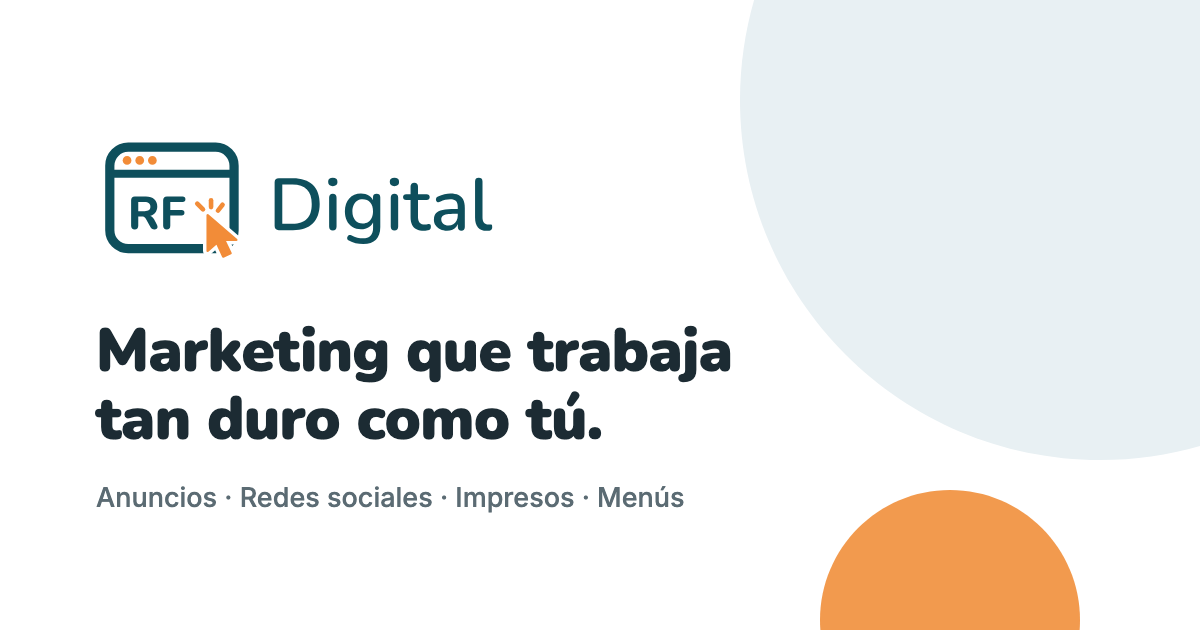
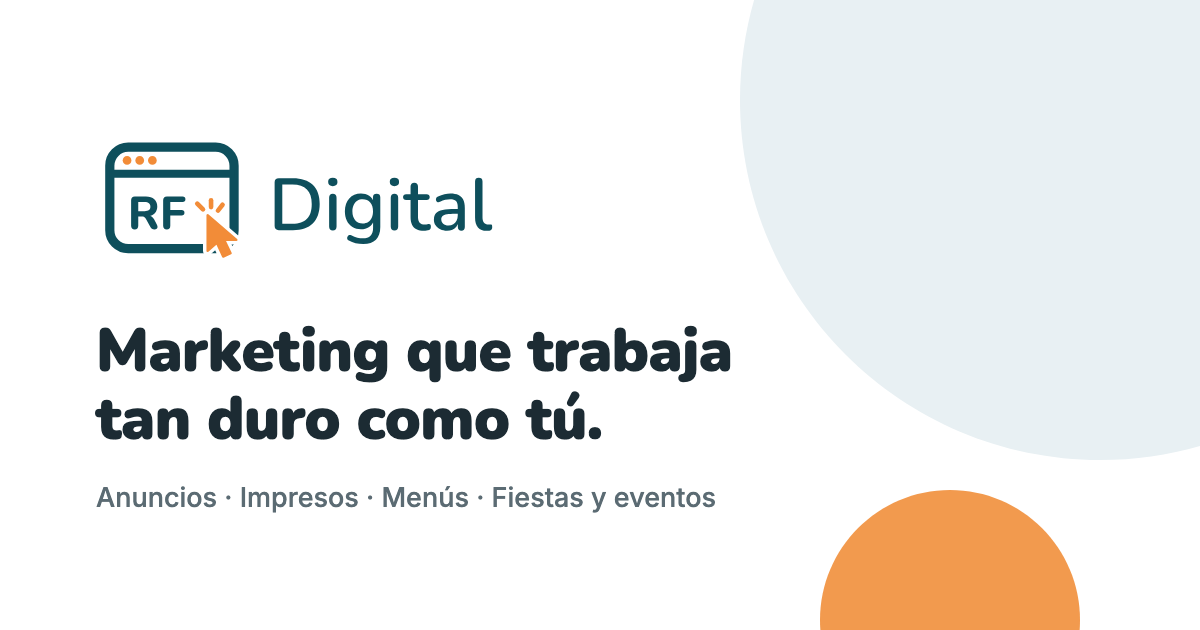
Mention parties and events in the link previews

Changed region(s): [[0.185, 0.754, 0.6167, 0.8143]]

diff --git a/es/index.html b/es/index.html
@@ -4,20 +4,20 @@
   <meta charset="utf-8">
   <meta name="viewport" content="width=device-width, initial-scale=1">
   <title>Marketing digital para negocios locales | RF Digital</title>
-  <meta name="description" content="RF Digital diseña anuncios, publicaciones para redes, logos, tarjetas, lonas, letreros y menús para negocios locales, estén donde estén.">
+  <meta name="description" content="RF Digital diseña anuncios, publicaciones para redes, logos, tarjetas, lonas, letreros y menús para negocios locales, además de invitaciones y lonas para fiestas y eventos.">
   <link rel="canonical" href="https://jose-franco22.github.io/rf-digital/es/">
   <meta name="robots" content="noindex, follow">
 
   <!-- Facebook and other link previews don't run JavaScript, so this page
        carries its own Spanish preview, then sends people to the Spanish site. -->
   <meta property="og:type" content="website">
-  <meta property="og:title" content="RF Digital | Marketing digital para negocios locales">
-  <meta property="og:description" content="Anuncios, publicaciones para redes, logos, impresos y menús para negocios locales.">
+  <meta property="og:title" content="RF Digital | Diseño para negocios, fiestas y eventos">
+  <meta property="og:description" content="Anuncios, redes sociales, lonas, menús e invitaciones para negocios locales, fiestas y eventos.">
   <meta property="og:url" content="https://jose-franco22.github.io/rf-digital/es/">
-  <meta property="og:image" content="https://jose-franco22.github.io/rf-digital/assets/img/og-image-es.png?v=1">
+  <meta property="og:image" content="https://jose-franco22.github.io/rf-digital/assets/img/og-image-es.png?v=2">
   <meta property="og:image:width" content="1200">
   <meta property="og:image:height" content="630">
-  <meta property="og:image:alt" content="RF Digital: marketing que trabaja tan duro como tú.">
+  <meta property="og:image:alt" content="RF Digital: marketing que trabaja tan duro como tú. Anuncios, impresos, menús, fiestas y eventos.">
   <meta property="og:locale" content="es_US">
   <meta name="twitter:card" content="summary_large_image">
 

diff --git a/index.html b/index.html
@@ -18,13 +18,13 @@
   </script>
 
   <meta property="og:type" content="website">
-  <meta property="og:title" content="RF Digital | Digital marketing for local businesses">
-  <meta property="og:description" content="Ads, social posts, branding, print, and menus for local businesses.">
+  <meta property="og:title" content="RF Digital | Design for local businesses, parties &amp; events">
+  <meta property="og:description" content="Ads, social posts, banners, menus, and invitations for local businesses, parties, and events.">
   <meta property="og:url" content="https://jose-franco22.github.io/rf-digital/">
-  <meta property="og:image" content="https://jose-franco22.github.io/rf-digital/assets/img/og-image.png?v=3">
+  <meta property="og:image" content="https://jose-franco22.github.io/rf-digital/assets/img/og-image.png?v=4">
   <meta property="og:image:width" content="1200">
   <meta property="og:image:height" content="630">
-  <meta property="og:image:alt" content="RF Digital: digital marketing for local businesses.">
+  <meta property="og:image:alt" content="RF Digital: marketing that works as hard as you do. Ads, print, menus, parties and events.">
   <meta property="og:locale" content="en_US">
   <meta property="og:locale:alternate" content="es_US">
   <meta name="twitter:card" content="summary_large_image">
